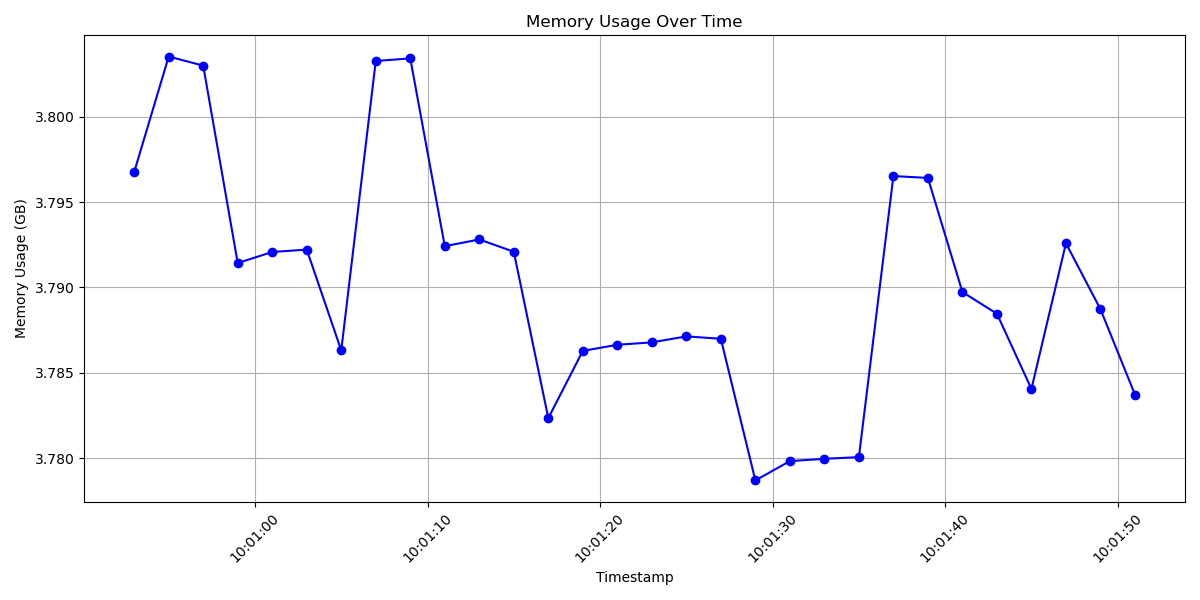
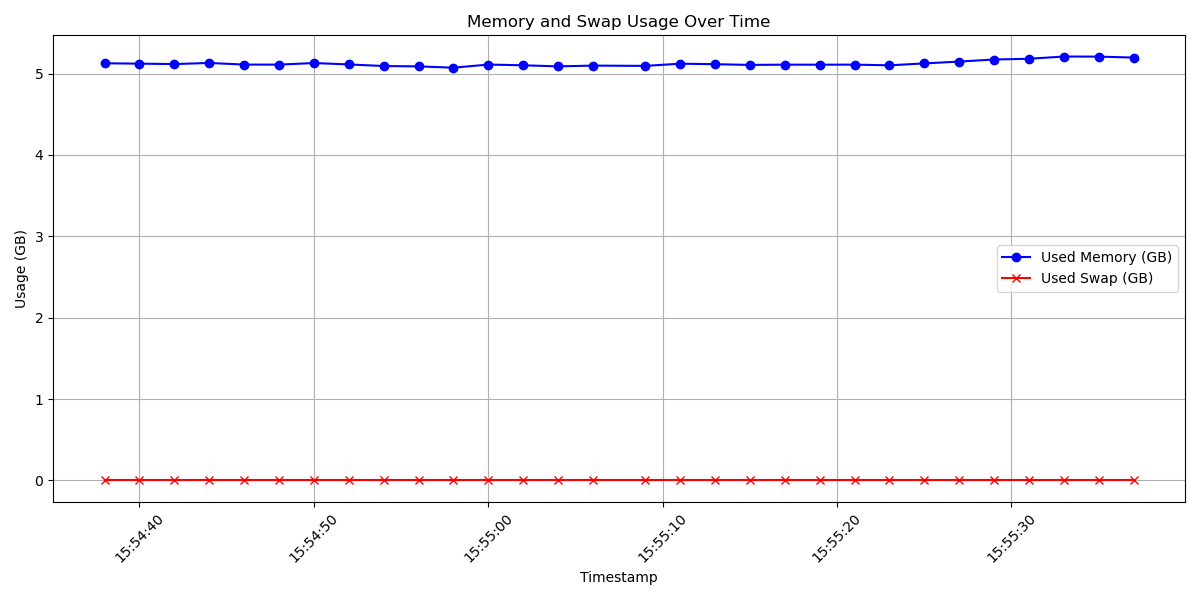
Added swap memory functionality

diff --git a/visualize_memory.py b/visualize_memory.py
@@ -7,14 +7,18 @@ def plot_memory_usage(log_file):
     df['Timestamp'] = pd.to_datetime(df['Timestamp'])
     
     df['Used Memory (GB)'] = df['Used Memory (KB)'] / (1024 * 1024)
-    
+    df['Used Swap (GB)'] = df['Used Swap (KB)'] / (1024 * 1024)
+
     plt.figure(figsize=(12, 6))
-    plt.plot(df['Timestamp'], df['Used Memory (GB)'], marker='o', linestyle='-', color='b')
-    plt.title('Memory Usage Over Time')
+    plt.plot(df['Timestamp'], df['Used Memory (GB)'], marker='o', linestyle='-', color='b', label='Used Memory (GB)')
+    plt.plot(df['Timestamp'], df['Used Swap (GB)'], marker='x', linestyle='-', color='r', label='Used Swap (GB)')
+    
+    plt.title('Memory and Swap Usage Over Time')
     plt.xlabel('Timestamp')
-    plt.ylabel('Memory Usage (GB)')
+    plt.ylabel('Usage (GB)')
     plt.grid(True)
     plt.xticks(rotation=45)
+    plt.legend()
     plt.tight_layout()  
     plt.savefig('memory_usage_plot.png') 
     plt.show()
